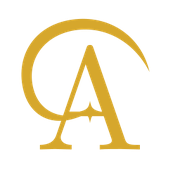
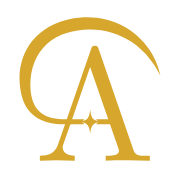
feat: update social preview images and improve font descriptions in styles

diff --git a/index.html b/index.html
@@ -8,7 +8,7 @@
   <link rel="canonical" href="https://acciolauncher.be/">
   <meta property="og:title" content="Accio Launcher — Tous les jeux Harry Potter PC">
   <meta property="og:description" content="Un seul launcher pour les 8 jeux Harry Potter PC. Les huit sont en ligne. Gratuit et open-source.">
-  <meta property="og:image" content="https://acciolauncher.be/assets/social-preview-v2.jpg">
+  <meta property="og:image" content="https://acciolauncher.be/assets/social-preview-v3.jpg">
   <meta property="og:url" content="https://acciolauncher.be/">
   <meta property="og:type" content="website">
   <meta property="og:locale" content="fr_FR">
@@ -17,7 +17,7 @@
   <meta property="og:image:height" content="630">
   <meta property="og:image:alt" content="Accio Launcher — les 8 jeux Harry Potter PC réunis dans un seul launcher.">
   <meta name="twitter:card" content="summary_large_image">
-  <meta name="twitter:image" content="https://acciolauncher.be/assets/social-preview-v2.jpg">
+  <meta name="twitter:image" content="https://acciolauncher.be/assets/social-preview-v3.jpg">
   <meta name="theme-color" content="#060611">
   <script>document.documentElement.classList.replace('no-js','js');</script>
   <link rel="icon" type="image/svg+xml" href="assets/brand/mark.svg">

diff --git a/css/styles.css b/css/styles.css
@@ -3,7 +3,7 @@
    =========================================== */
 
 @font-face { font-family:'Cinzel'; src:url('../assets/fonts/Cinzel-Variable.woff2') format('woff2'); font-weight:400 900; font-display:swap; }
-/* Accio Titres = Cinzel Decorative Bold, sauf h dessiné comme H : son h minuscule mordait sur le C de « Launcher » (OFL : renommée). */
+/* Accio Titres = Cinzel Decorative Bold dont le h (crochet qui mordait sur le C de « Launcher ») est le H de Cinzel Bold, à la hauteur des autres lettres (OFL : renommée). */
 @font-face { font-family:'Accio Titres'; src:url('../assets/fonts/AccioTitres-Bold.woff2') format('woff2'); font-weight:700; font-display:swap; }
 
 :root {

diff --git a/atelier.html b/atelier.html
@@ -8,7 +8,7 @@
   <link rel="canonical" href="https://acciolauncher.be/atelier.html">
   <meta property="og:title" content="L'atelier · Accio Launcher">
   <meta property="og:description" content="Vous dessinez, vous montez des vidéos ? Voici ce que les huit jeux Harry Potter PC attendent.">
-  <meta property="og:image" content="https://acciolauncher.be/assets/social-preview-v2.jpg">
+  <meta property="og:image" content="https://acciolauncher.be/assets/social-preview-v3.jpg">
   <meta property="og:url" content="https://acciolauncher.be/atelier.html">
   <meta property="og:type" content="website">
   <meta name="theme-color" content="#060611">
